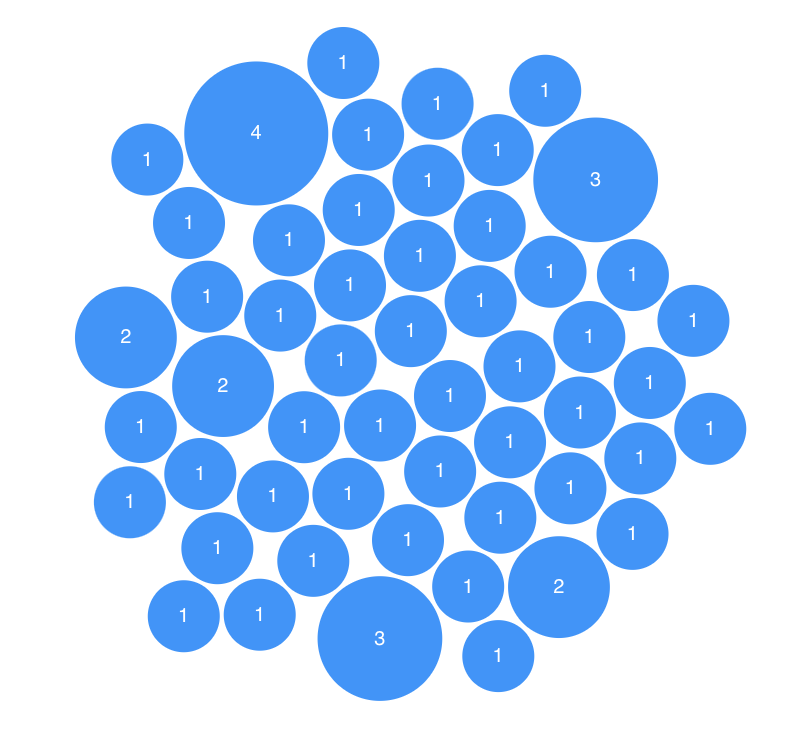
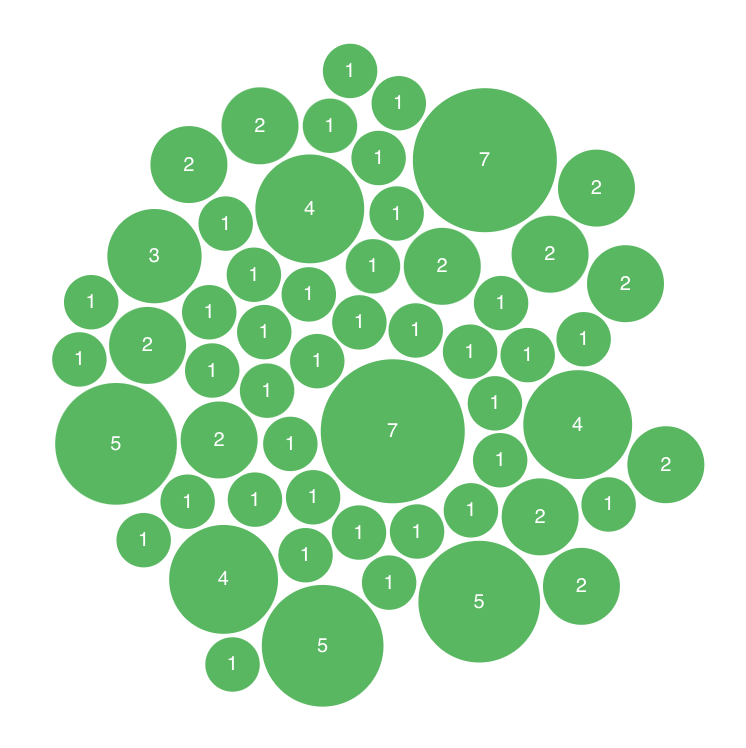
color scheme changes

diff --git a/src/Components/HelpModal.js b/src/Components/HelpModal.js
@@ -23,6 +23,9 @@ const HelpModal = ({ modalOpen, closeHelpModal, ...props }) => {
     if (step > 0) {
       setStep(step - 1)
     }
+	if (step === 0) {
+		closeHelpModal()
+	}
   }
 
   const renderContent = () => {
@@ -58,10 +61,10 @@ const HelpModal = ({ modalOpen, closeHelpModal, ...props }) => {
             paddingTop: "16px",
           }}
         >
-          <Button variant="contained" onClick={prevStep}>
+          <Button variant="contained" onClick={prevStep} sx={{backgroundColor: "#1db954", '&:hover': {backgroundColor: '#17863d'}}}>
             {step === 0 ? "Close" : "Back"}
           </Button>
-          <Button variant="contained" onClick={nextStep}>
+          <Button variant="contained" onClick={nextStep} sx={{backgroundColor: "#1db954", '&:hover': {backgroundColor: '#17863d'}}}>
             {step === renderFns.length - 1 ? "Close" : "Next"}
           </Button>
         </Box>
@@ -140,6 +143,7 @@ const renderSignIn = () => {
         src={signInButton}
         alt="Sign In Button"
         className="help-modal-image"
+		height="100px"
       />
     </React.Fragment>
   )
@@ -288,7 +292,7 @@ const renderBubbleChart = () => {
         src={bubbleChart}
         alt="Bubble Chart"
         className="help-modal-image"
-        width={400}
+        height={340}
       />
       <Typography variant="body1">
         Hover over any bubble to see the artist's name and the number of songs

diff --git a/src/Components/nav.js b/src/Components/nav.js
@@ -49,7 +49,7 @@ const NavigationWrapper = ({ children, openHelpModal, ...props }) => {
     <div>
       <Box sx={{ display: "flex" }}>
         <CssBaseline />
-        <AppBar position="absolute" open={open}>
+        <AppBar position="absolute" open={open} sx={{backgroundColor: "#303030"}}>
           <Toolbar
             sx={{
               pr: "24px", // keep right padding when drawer closed
@@ -77,7 +77,7 @@ const NavigationWrapper = ({ children, openHelpModal, ...props }) => {
               Spotify Vibe Check
             </Typography>
             {user ? (
-              <Button variant="contained" onClick={logout}>
+              <Button variant="contained" onClick={logout} sx={{backgroundColor: "#1db954", '&:hover': {backgroundColor: "#17863d"}}}>
                 Logout
               </Button>
             ) : (
@@ -145,7 +145,7 @@ const NavigationWrapper = ({ children, openHelpModal, ...props }) => {
         <Box
           component="main"
           sx={{
-            backgroundColor: "red",
+            // backgroundColor: "red",
             // backgroundColor: (theme) =>
             //   theme.palette.mode === "light"
             //     ? theme.palette.grey[100]

diff --git a/src/Components/Dashboard/ArtistBubbles.js b/src/Components/Dashboard/ArtistBubbles.js
@@ -19,12 +19,12 @@ const ArtistBubbles = ({ data, loading }) => {
 
 	}, [data])
 
-	if (loading) {
-		return (
-			<Box>loading...</Box>
-		)
-	}
-	if (!data) {
+	// if (loading) {
+	// 	return (
+	// 		<Box>loading...</Box>
+	// 	)
+	// }
+	if (loading || !data) {
 		return (
 			<Box></Box>
 		)
@@ -34,11 +34,12 @@ const ArtistBubbles = ({ data, loading }) => {
 			<Box id="artist-bubbles-header" sx={{width: '500px', textAlign: 'center'}}>
 				<h3 sx={{marginBottom: '-20px', textAlign: 'center'}}>Arists in this Playlist</h3>
 			</Box>
-			<Box id="artist-bubbles-container" ></Box>
 			<Box sx={{minHeight: "40px", width: '500px', textAlign: 'center'}}>
 				{activeArtist && <Typography>{activeArtist} - {activeCount} songs in this playlist</Typography>}
 
 			</Box>
+			<Box id="artist-bubbles-container" ></Box>
+
 
 		</Box>
 
@@ -177,7 +178,7 @@ function bubbleChart() {
 		.append('circle')
 		.classed('bubble', true)
 		.attr('r', d => d.radius)
-		.attr('fill', "#0096FF")
+		.attr('fill', "#1db954")
 		.on('mouseover', (d) => {
 			d.target.classList.add('hoverColor')
 			setActiveArtist(d.target.__data__.id)

diff --git a/src/Components/Dashboard/PlaylistSelector.js b/src/Components/Dashboard/PlaylistSelector.js
@@ -126,6 +126,9 @@ function PlaylistSelector({
   }
 
   	function shortenName(name) {
+		if (name.substring(0,12) === "Barack Obama") {
+			name = name.substring(7)
+		}
 		if (name.length > 20) {
 			return name.substring(0, 20).trim() + '...';
 		}
@@ -146,7 +149,7 @@ function PlaylistSelector({
 			maxWidth: "100px",
 			marginLeft: "10px",
 			marginRight: "10px",
-			backgroundColor: active ? "lightblue" : "none",
+			backgroundColor: active ? "#1db954" : "none",
 			"&:hover": {
 			  cursor: "pointer",
 			},
@@ -165,7 +168,8 @@ function PlaylistSelector({
 				image={(playlist?.images?.length && playlist?.images[0]?.url) || testCover}
 			/>
 			<CardContent sx={{paddingBottom: 0, paddingRight: "4px", paddingLeft: "4px", paddingTop: '8px'}}>
-				<Typography sx={{ textAlign: "center", overflowX: "none", fontSize: '0.8em', 
+				<Typography sx={{ textAlign: "center", overflowX: "none", fontSize: '0.8em',
+ 
 				// overflow: 'hidden', whiteSpace: 'nowrap' 
 				}}>
 					{shortenName(playlist.name)}

diff --git a/src/Components/Dashboard/index.css b/src/Components/Dashboard/index.css
@@ -11,13 +11,13 @@
 }
 
 .song-select-track:hover {
-  background-color: #000000;
-  color: #ffffff;
+  background-color: #1db954;
+  color: #000000;
 }
 
 .song-select-track-selected {
-  background-color: #000000;
-  color: #ffffff;
+  background-color: #1db954 !important;
+  color: #000000;
 }
 
 .song-select-img {

diff --git a/src/page-styles.css b/src/page-styles.css
@@ -15,11 +15,6 @@ body {
 }
 
 .hoverColor {
-	fill: #0047AB;
+	fill: #17863d;
 }
 
-.bubbles-test:hover {
-	fill: red
-
-
-}
